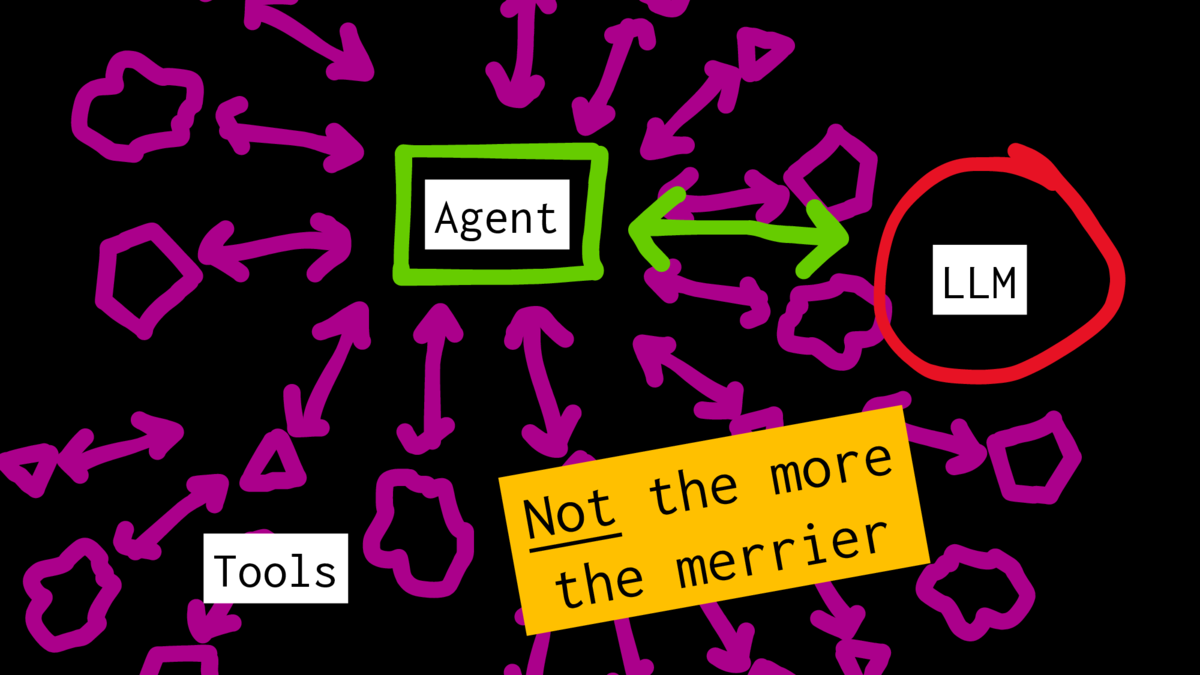
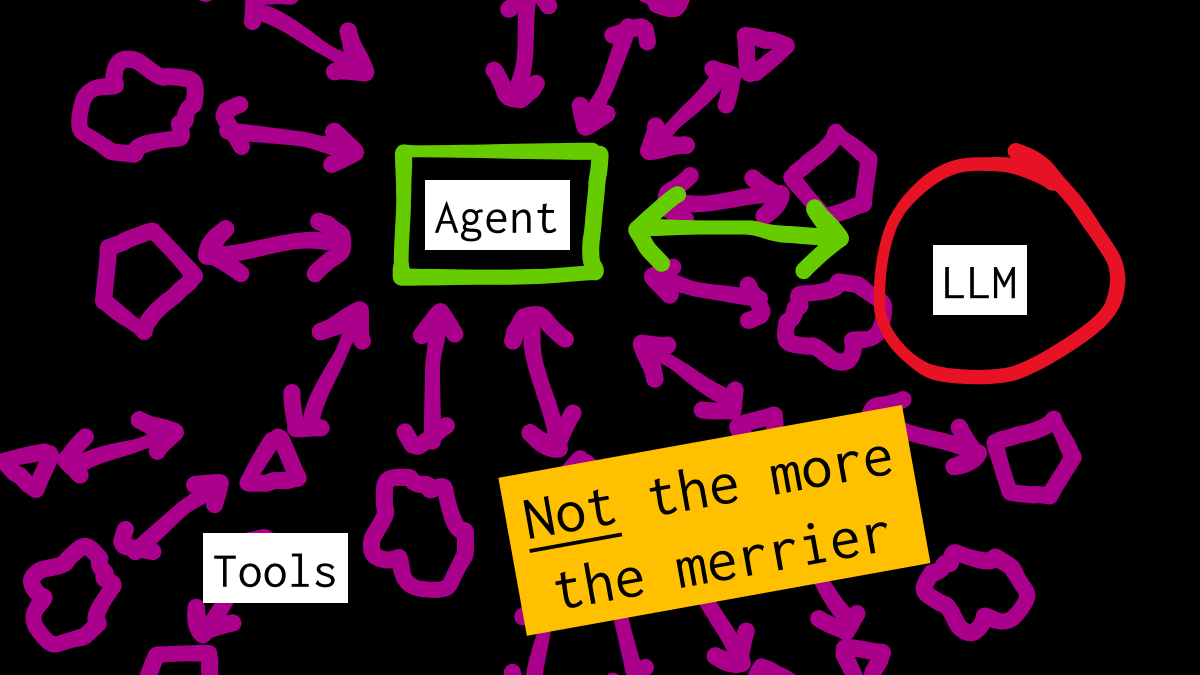
Update pydantic-ai

diff --git a/docs/static/index.css b/docs/static/index.css
@@ -96,8 +96,17 @@
 .try-menu > summary::-webkit-details-marker {
     display: none;
 }
+.try-menu > .primary-btn {
+    position: relative;
+    display: block;
+    text-align: center;
+}
 .try-menu > .primary-btn::after {
-    content: ' \25BE';
+    content: '\25BE';
+    position: absolute;
+    right: 1.1em;
+    top: 50%;
+    transform: translateY(-50%);
 }
 .try-options {
     position: absolute;

diff --git a/docs/static/read.css b/docs/static/read.css
@@ -80,8 +80,17 @@
 .nb-try-menu > summary::-webkit-details-marker {
     display: none;
 }
+.nb-try-menu > .nb-action-colab {
+    position: relative;
+    display: block;
+    text-align: center;
+}
 .nb-try-menu > .nb-action-colab::after {
-    content: ' \25BE';
+    content: '\25BE';
+    position: absolute;
+    right: 1.1em;
+    top: 50%;
+    transform: translateY(-50%);
     font-size: 0.9em;
 }
 .nb-try-options {